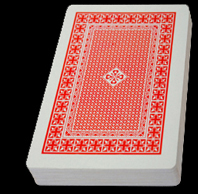
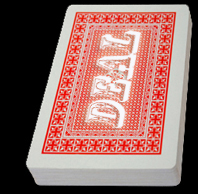
New images for deck of cards added

Changed region(s): [[0.4242, 0.1237, 0.7273, 0.6804]]

diff --git a/src/java/client/Table.java b/src/java/client/Table.java
@@ -703,6 +703,11 @@ public class Table extends javax.swing.JPanel
         startGame.setIcon(new javax.swing.ImageIcon(getClass().getResource("/images/deckofcards.jpg"))); // NOI18N
         startGame.setBorder(null);
         startGame.setPreferredSize(new java.awt.Dimension(198, 194));
+        startGame.addActionListener(new java.awt.event.ActionListener() {
+            public void actionPerformed(java.awt.event.ActionEvent evt) {
+                startGameActionPerformed(evt);
+            }
+        });
         gridBagConstraints = new java.awt.GridBagConstraints();
         gridBagConstraints.gridx = 0;
         gridBagConstraints.gridy = 4;
@@ -748,6 +753,55 @@ public class Table extends javax.swing.JPanel
             updateBetAmount(bet);
         }
     }//GEN-LAST:event_resetBetBtnActionPerformed
+
+    private void startGameActionPerformed(java.awt.event.ActionEvent evt) {//GEN-FIRST:event_startGameActionPerformed
+        // TODO add your handling code here:
+        try {
+            //Update the client's money
+            initCash = client.getBank();
+        }
+		catch (RemoteException ex) {
+                JOptionPane.showMessageDialog(this, "Connection Problem. Error retreiving bank.", "Error", JOptionPane.ERROR_MESSAGE);
+            }
+        catch (UnknownUserException uue) {
+			JOptionPane.showMessageDialog(this, uue.getMessage(), "Error", JOptionPane.ERROR_MESSAGE);
+			return;
+		}
+
+		updateCashAmount(initCash);
+
+		if(bet == 0)
+		{
+			JOptionPane.showMessageDialog(this, "You have to enter a bet first", "Information", JOptionPane.INFORMATION_MESSAGE);
+		}
+        else if(initCash - bet < 0){
+            JOptionPane.showMessageDialog(this, "You don't have enough money to make this bet!", "Information", JOptionPane.INFORMATION_MESSAGE);
+            bet = 0;
+            updateBetAmount(bet);
+        }
+		else if(!dealt)
+		{
+			this.setLayout(null);
+            cardCount = 0;
+            try{
+                playerHand = client.dealPlayer(userID);
+                renderPlayerHand(playerHand);
+                dealerHand = client.dealDealer(userID);
+                renderDealerHand(dealerHand);
+            }
+            catch(UnknownUserException uue){
+                JOptionPane.showMessageDialog(this, uue.getMessage(), "Error", JOptionPane.ERROR_MESSAGE);
+            }
+            catch(RemoteException re)
+            {
+               JOptionPane.showMessageDialog(this, "Connection Problem. Error Dealing.", "Error", JOptionPane.ERROR_MESSAGE);
+            }
+            dealt = true;
+		}
+        else{
+            JOptionPane.showMessageDialog(this, "You already have a hand", "Information", JOptionPane.INFORMATION_MESSAGE);
+        }
+    }//GEN-LAST:event_startGameActionPerformed
 
     // Variables declaration - do not modify//GEN-BEGIN:variables
     private javax.swing.JLabel betAmountLabel;
